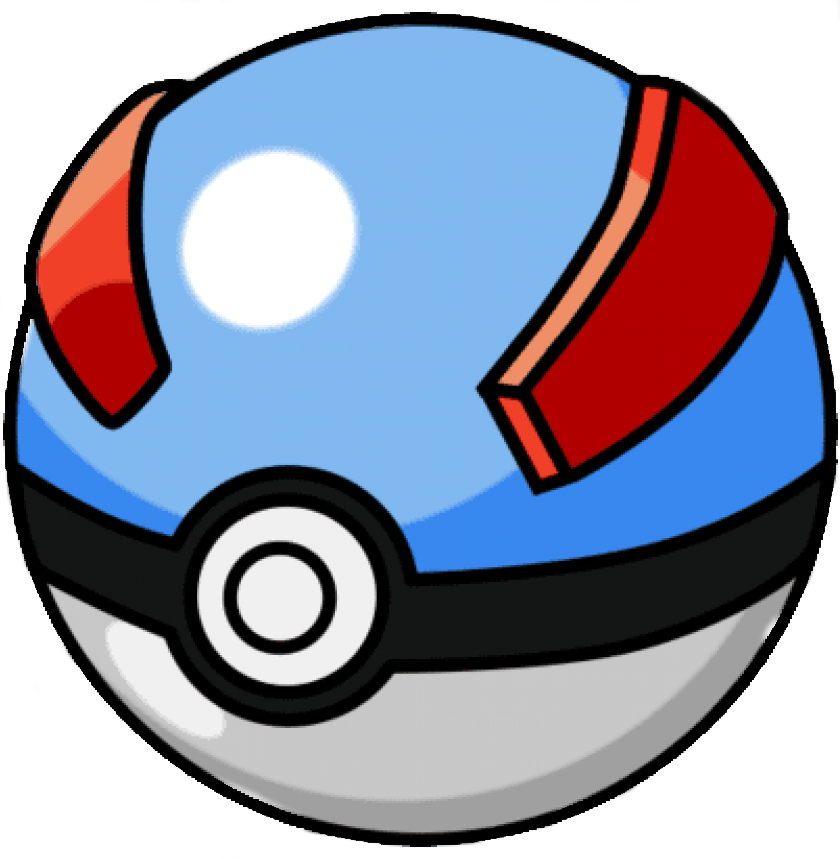
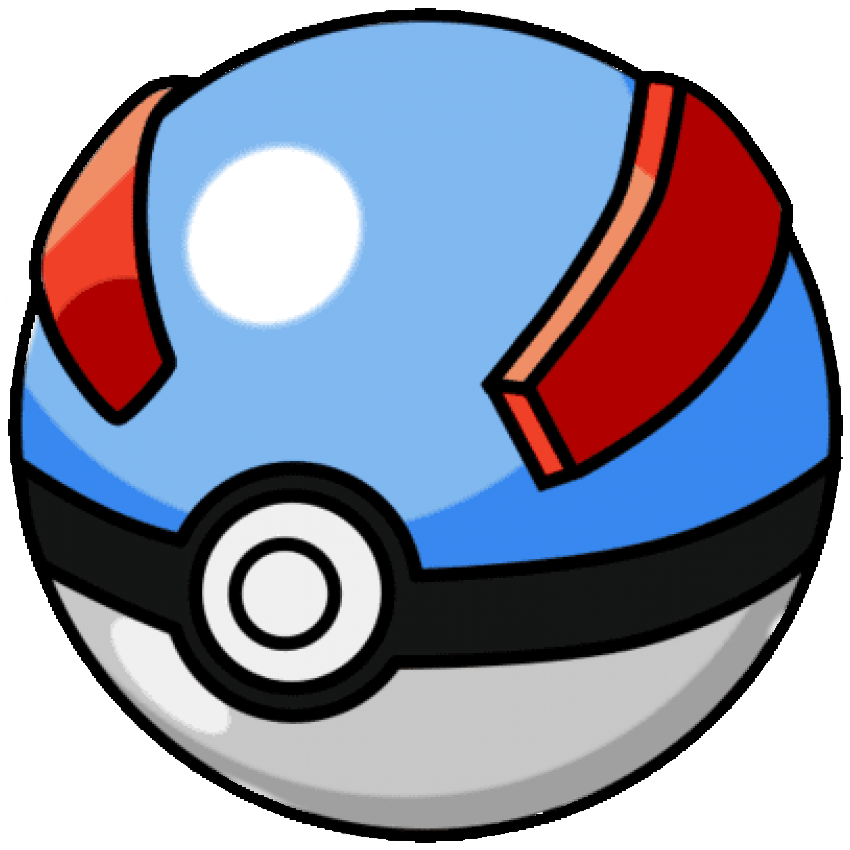
improved the pokeball images

diff --git a/components/cards/PokeCard.tsx b/components/cards/PokeCard.tsx
@@ -65,10 +65,10 @@ function PokeCard(props: PokeCardProps) {
       />
       {props.userPokemonIds.length > 0 && props.userPokemonIds.includes(props.pokemon.id) &&
         <Image source={
-          props.userPokemons.find(x => x.id === props.pokemon.id).pokeball === "Great Ball" ? require("../../assets/images/pokeballs/greatBall.png") : 
-          props.userPokemons.find(x => x.id === props.pokemon.id).pokeball === "Ultra Ball" ? require("../../assets/images/pokeballs/ultraBall.png") : 
-          props.userPokemons.find(x => x.id === props.pokemon.id).pokeball === "Master Ball" ? require("../../assets/images/pokeballs/masterBall.png") : 
-          require("../../assets/images/pokeballs/pokeball.png")           
+          props.userPokemons.find(x => x.id === props.pokemon.id).pokeball === "Great Ball" ? require("../../assets/images/pokeballs/greatBall-mini.png") : 
+          props.userPokemons.find(x => x.id === props.pokemon.id).pokeball === "Ultra Ball" ? require("../../assets/images/pokeballs/ultraBall-mini.png") : 
+          props.userPokemons.find(x => x.id === props.pokemon.id).pokeball === "Master Ball" ? require("../../assets/images/pokeballs/masterBall-mini.png") : 
+          require("../../assets/images/pokeballs/pokeball-mini.png")
         }
           style={styles.pokeballImage}
         />
